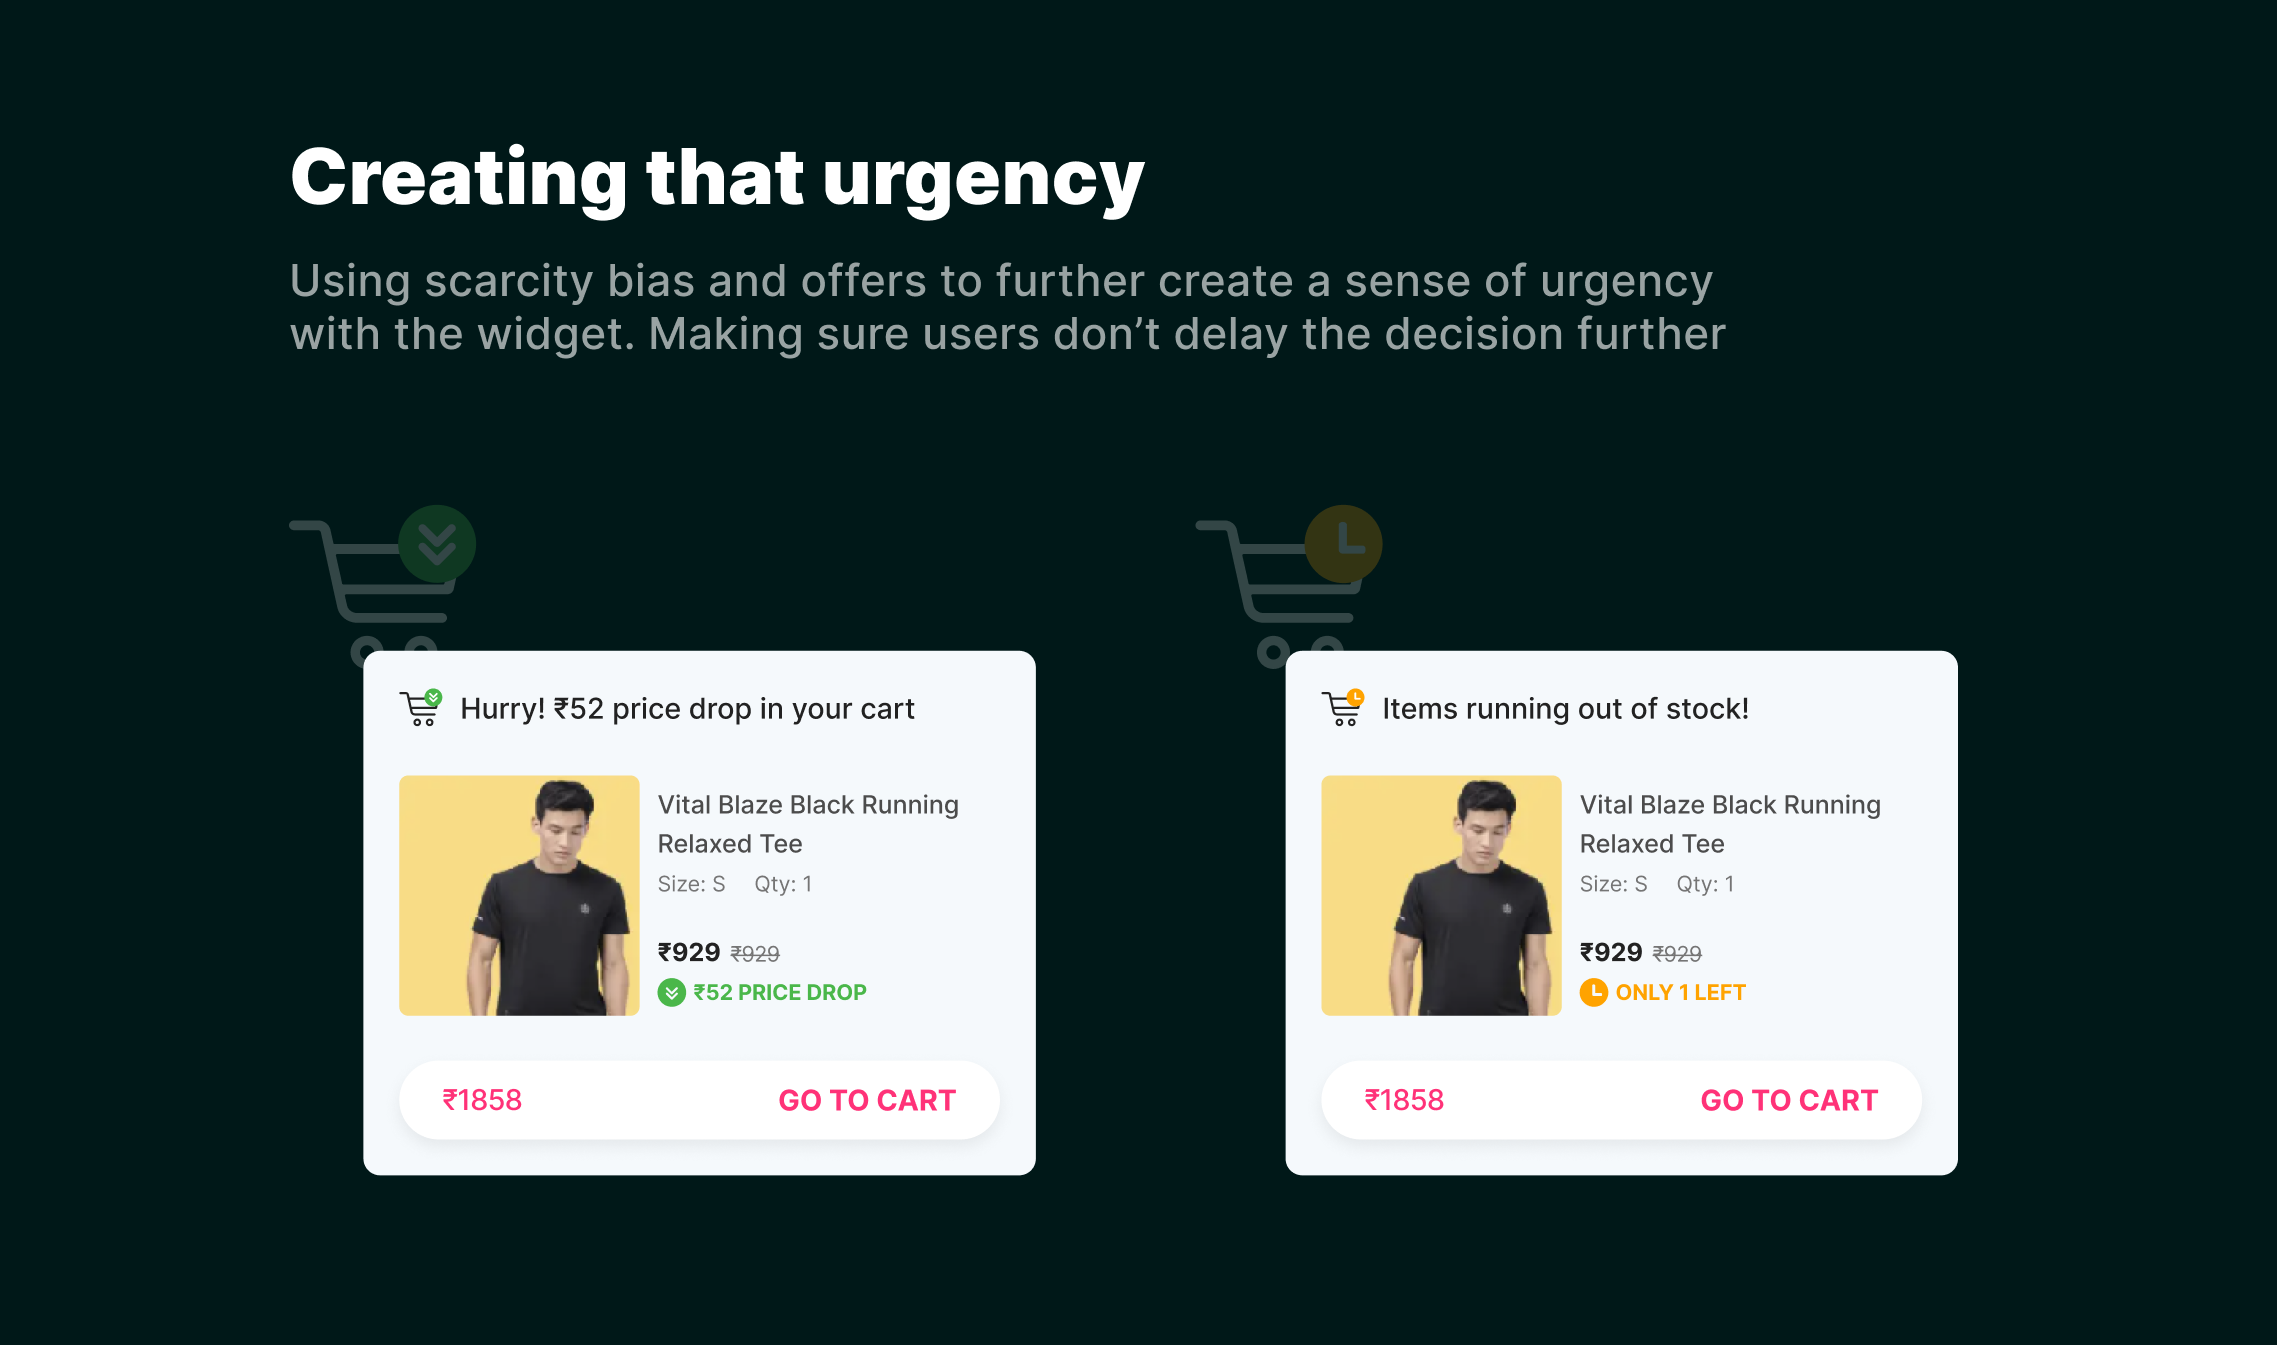
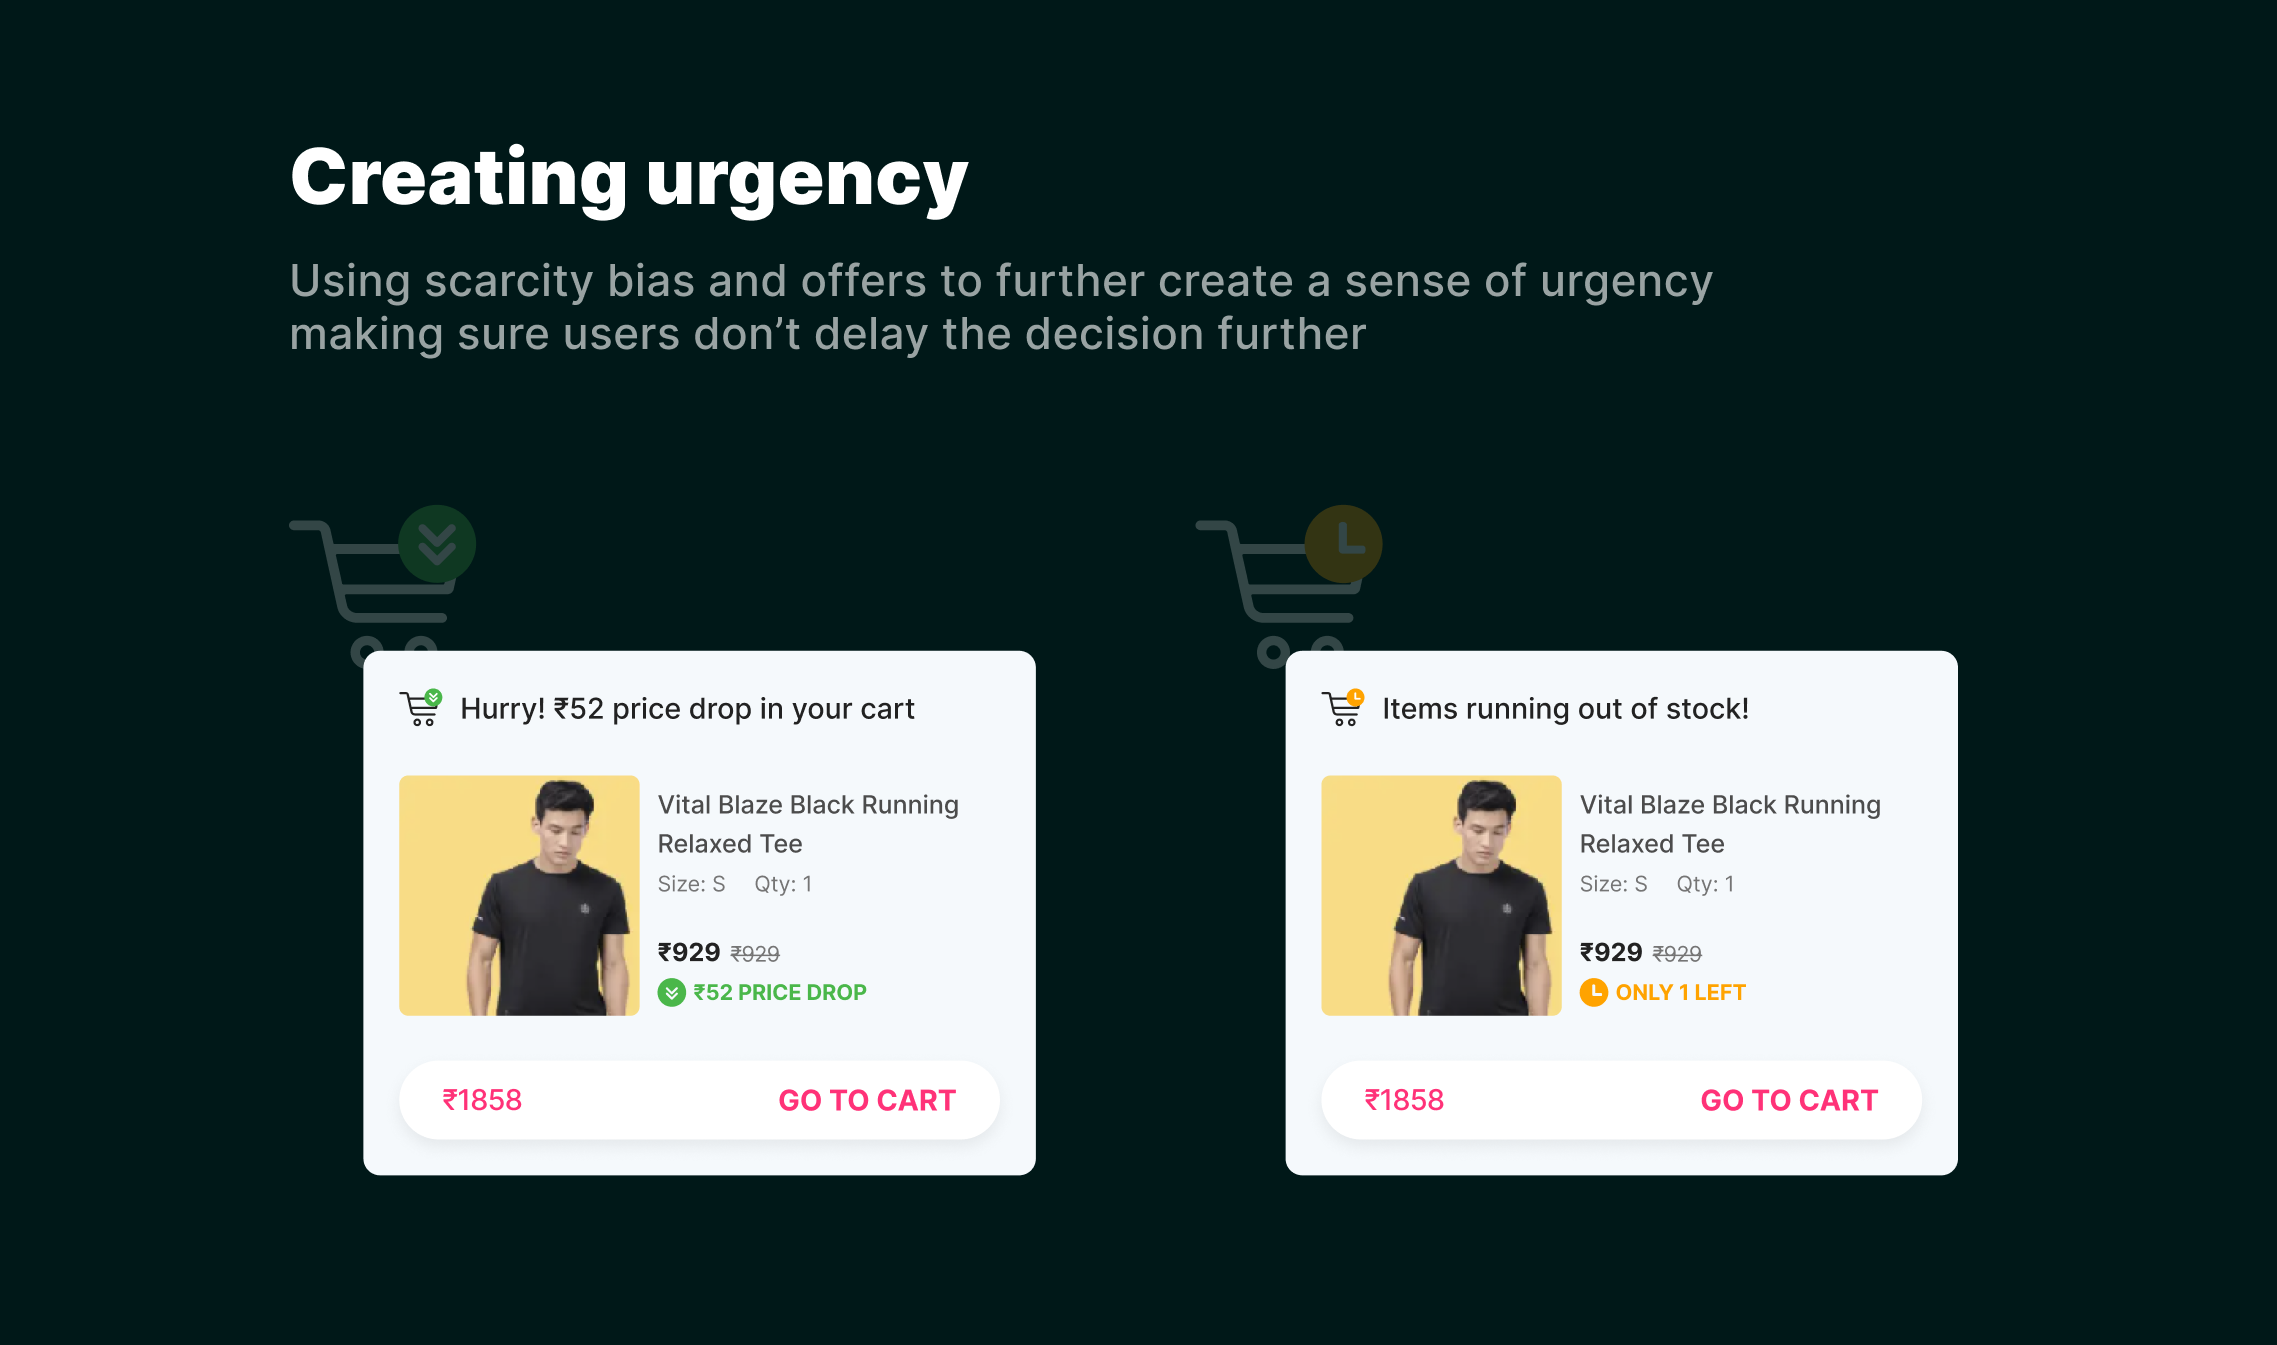
update

Changed region(s): [[0.1247, 0.2186, 0.7484, 0.281], [0.2806, 0.0937, 0.4989, 0.1874]]

diff --git a/cart_abandonment.html b/cart_abandonment.html
@@ -147,7 +147,7 @@
 				</p>
 				<div class="heading">Quick testing of hypothesis </div>
 				<p>
-					
+					To quickly check if just reminding the people is good enough for them to reconsider their decision, we build a widget using th existing atoms in the library. Widget is to placed at places with high interaction of users. 	
 				</p>
 			</div>  
 		</div>
@@ -166,9 +166,18 @@
 		<div id="cover4" class="BOB"><img src="./images/Cart/5.png" loading="lazy" alt="..." style="margin: 0" ></div>
 		<div class="parent">
 			<div id="text">
+				<div class="heading">Feedback and suggestions from internal users</div>
+				<p>
+					
+				</p>		
+		</div>
+		</div>
+		<div id="cover4" class="BOB"><img src="./images/Cart/6.png" loading="lazy" alt="..." style="margin: 0"></div>
+		<div class="parent">
+			<div id="text">
 
 				<p>
-					After a good proof of concept, we decided to make this even more effective by incorporating all the feedback we have received along with the experiment.
+					After a good proof of concept, the next course was to make it even more effective. Along with the feedbacks that we had recieved, a suggestion triggered the line of idea to prevent further delay in the decision for users.
 				</p>
 		<br><br><br>		
 		</div>
